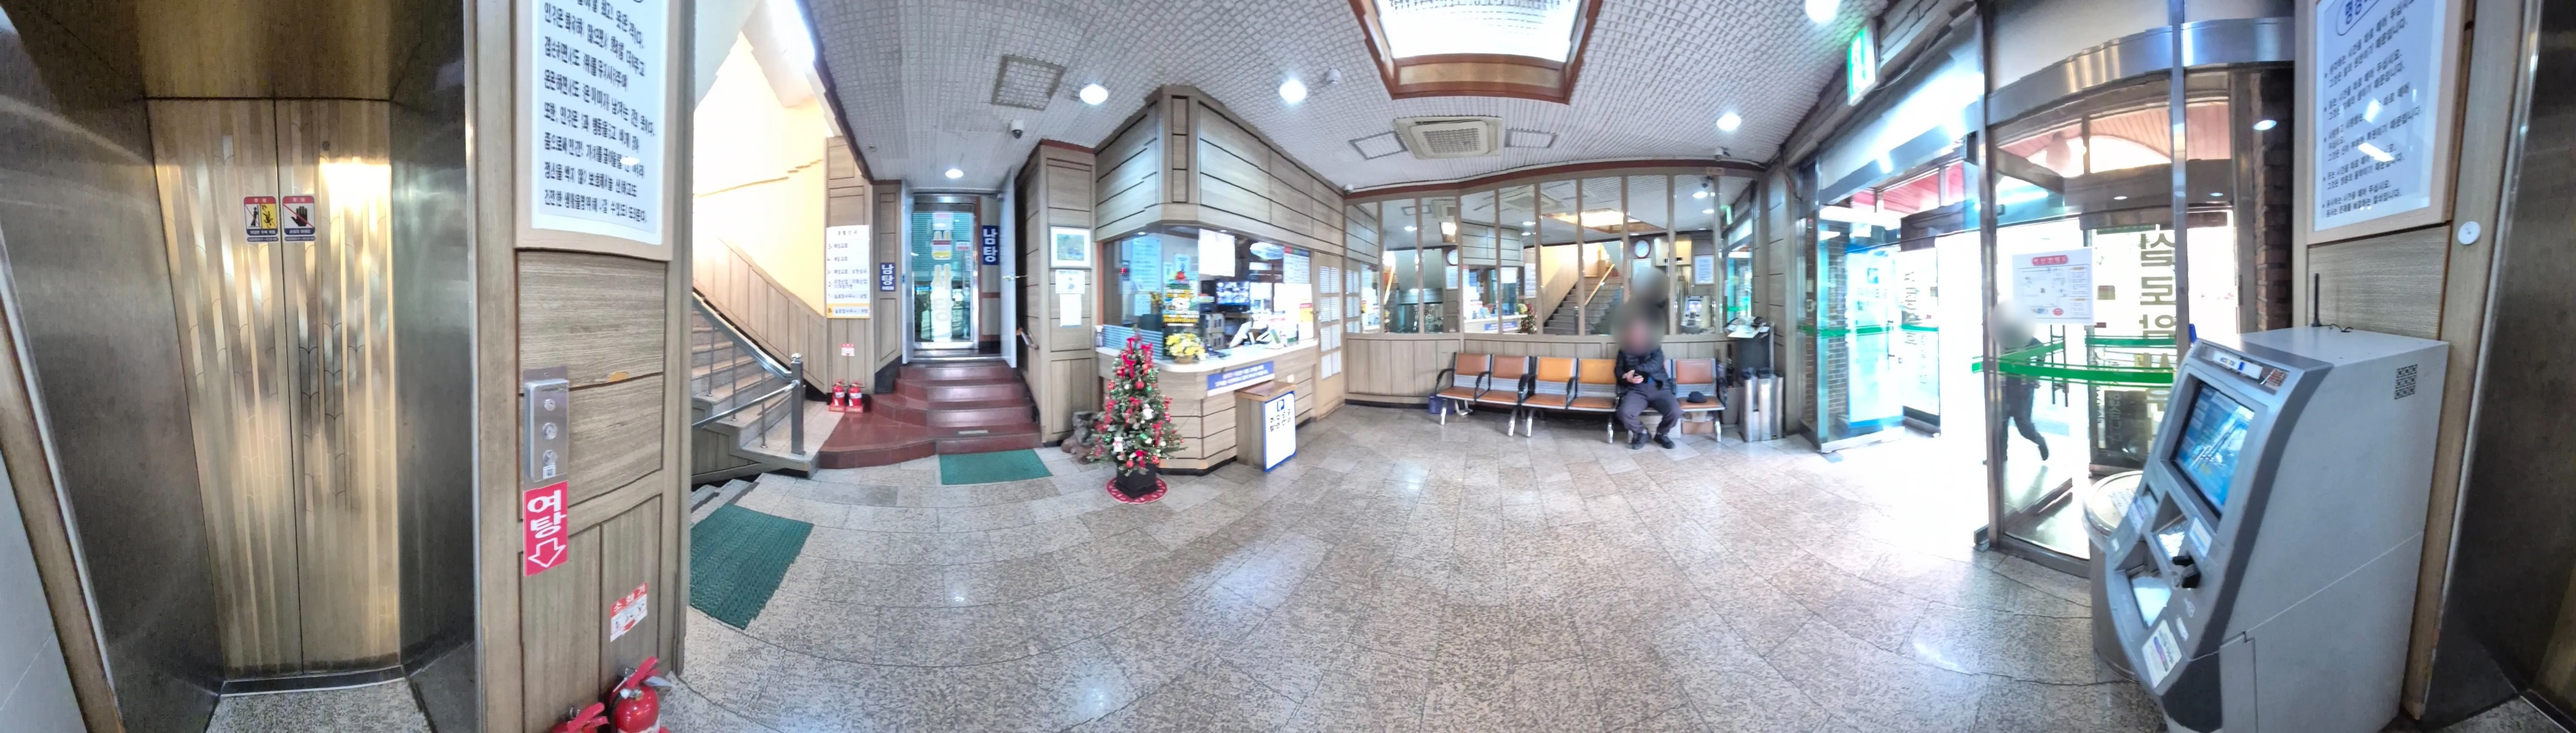
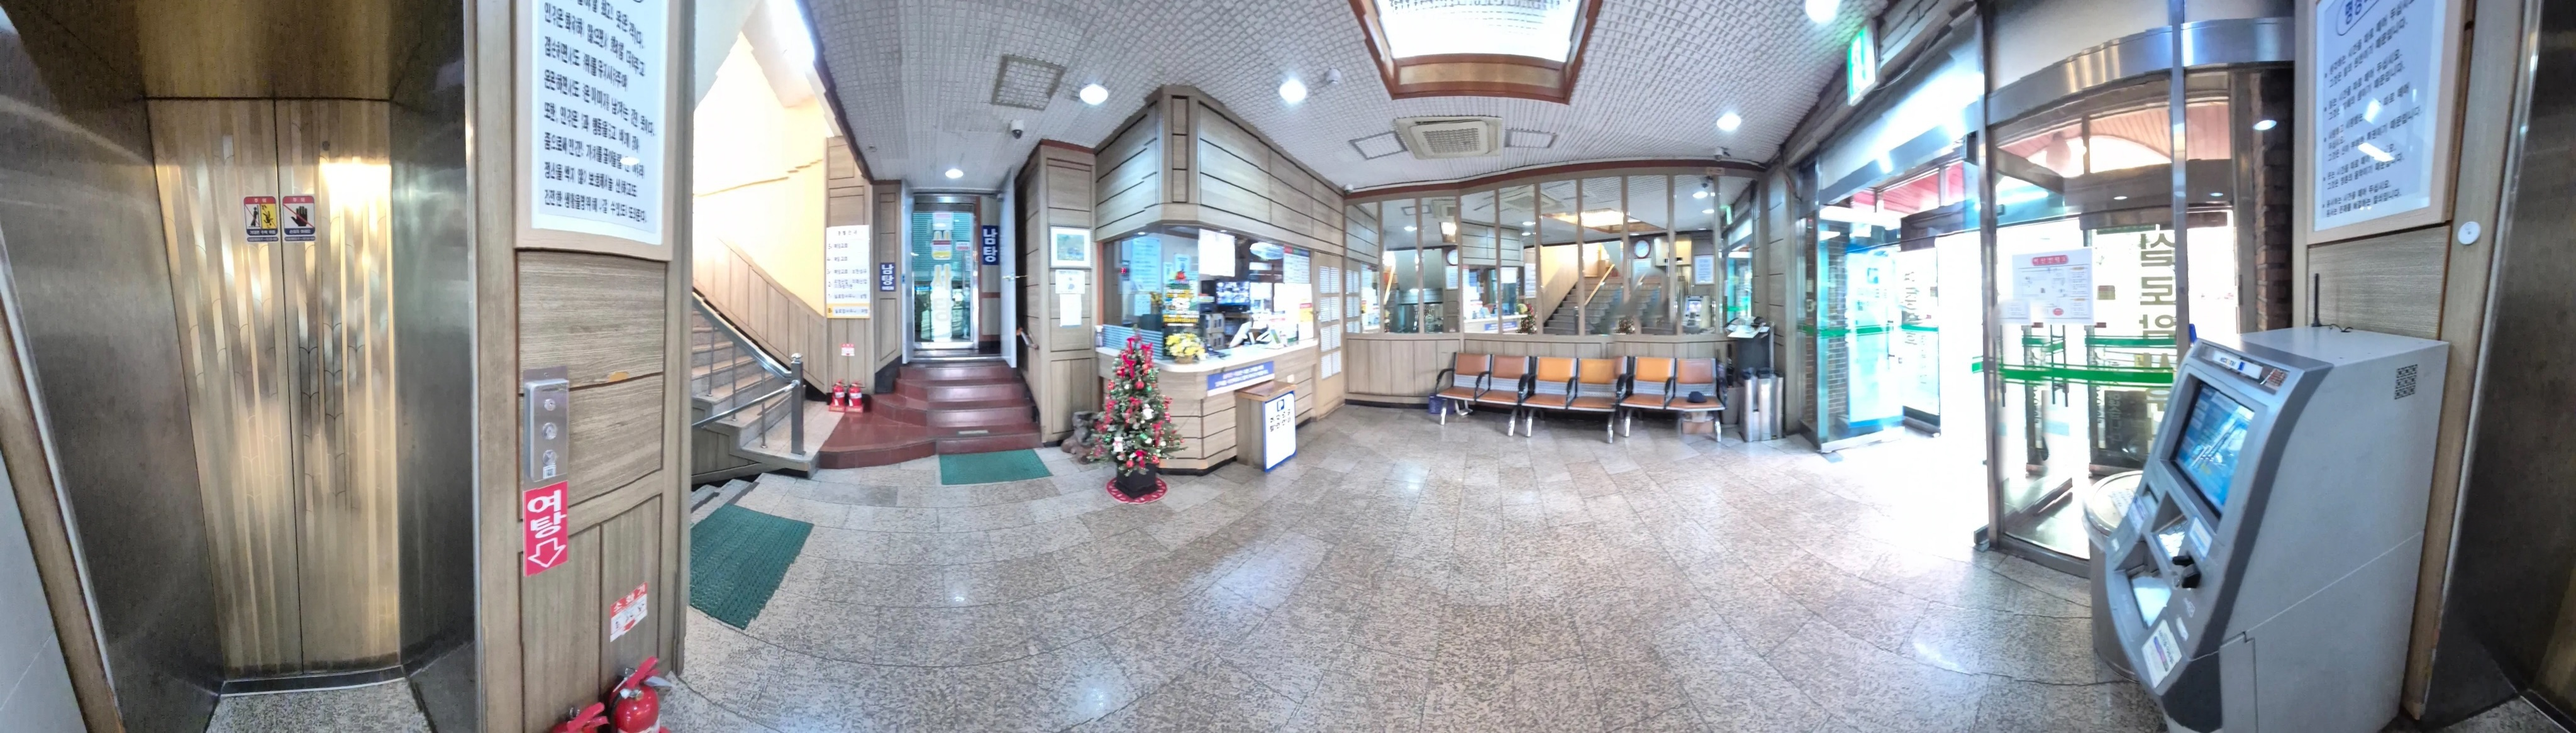
사진 속 사람 지우기: 1층은 주변 배경으로 덮고, 엘리베이터는 거울에 비친 부분을 잘라냄
엘리베이터 사진은 360도에서 314도로 줄어서 hfov, vfov 와 층 버튼 좌표를 다시 맞춤.

Claude-Session: https://claude.ai/code/session_01R6riQzbdkBphGACBxaV4DF

Changed region(s): [[0.75, 0.4014, 0.8125, 0.6484], [0.625, 0.3705, 0.6562, 0.6175]]

diff --git a/config.js b/config.js
@@ -50,12 +50,13 @@ window.TOUR = {
     elevator: {
       name: "엘리베이터",
       image: "photos/elevator-in.jpg",
-      hfov: 360,
-      startYaw: -125,
+      // 거울에 비친 사람 부분을 잘라낸 사진이라 360도가 아닌 314도입니다. (세로 각도는 원래 360도 사진과 같게)
+      hfov: 314, vfov: 100,
+      startYaw: -10,
       hotspots: [
-        { type: "go", to: "hall4f", yaw: -139, pitch: 12,  label: "4층" },
-        { type: "go", to: "hall3f", yaw: -139, pitch: -2,  label: "3층" },
-        { type: "go", to: "elevator1f", yaw: -139, pitch: -16, label: "1층" },
+        { type: "go", to: "hall4f", yaw: -19, pitch: 12,  label: "4층" },
+        { type: "go", to: "hall3f", yaw: -19, pitch: -2,  label: "3층" },
+        { type: "go", to: "elevator1f", yaw: -19, pitch: -16, label: "1층" },
       ],
     },
 

diff --git a/README.md b/README.md
@@ -124,4 +124,4 @@ bgm: {
 
 코드(`index.html`, `config.js` 형식, 문서)는 MIT 입니다. 어느 교회든 자유롭게 가져다 쓰세요.
 `photos/` 의 사진은 예임교회 예시로 넣은 것이라 MIT 에 포함되지 않습니다. 우리 교회 사진으로 바꿔서 쓰세요.
-사진 속 사람 얼굴은 흐리게 처리해서 올렸습니다. 우리 교회 사진을 올릴 때도 얼굴이 보이면 동의를 받거나 가려주세요.
+사진에 찍힌 사람은 주변 배경으로 덮거나 그 부분을 잘라내서 올렸습니다. 우리 교회 사진을 올릴 때도 얼굴이 보이면 동의를 받거나 가려주세요.
